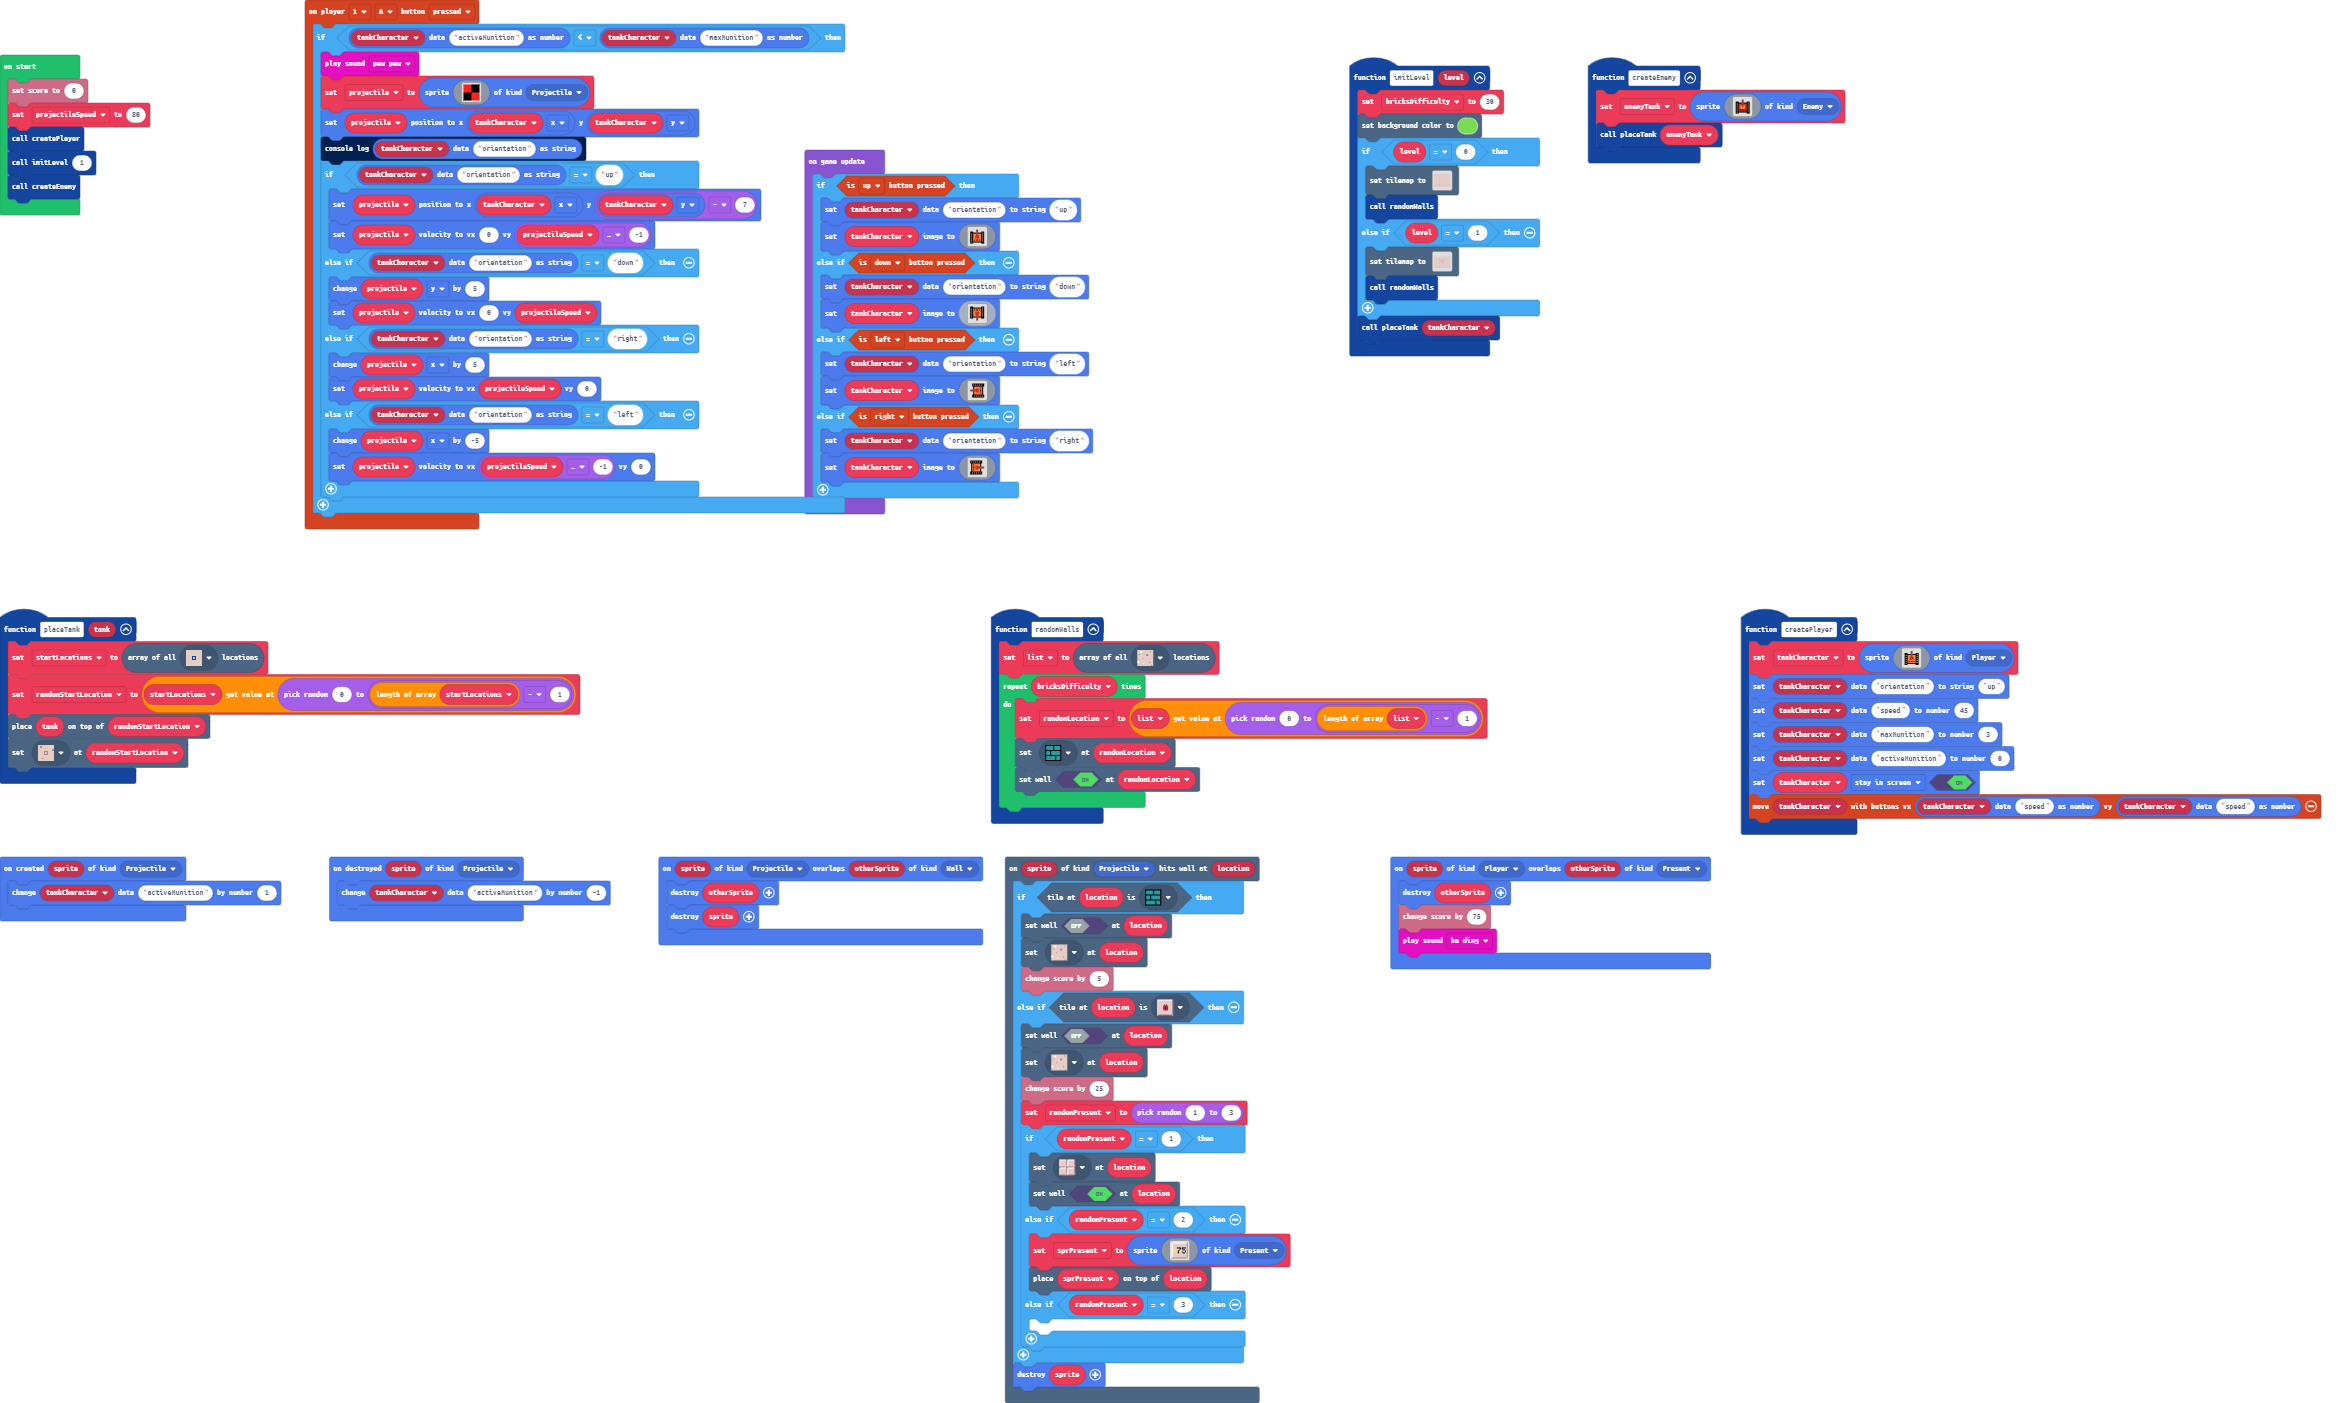
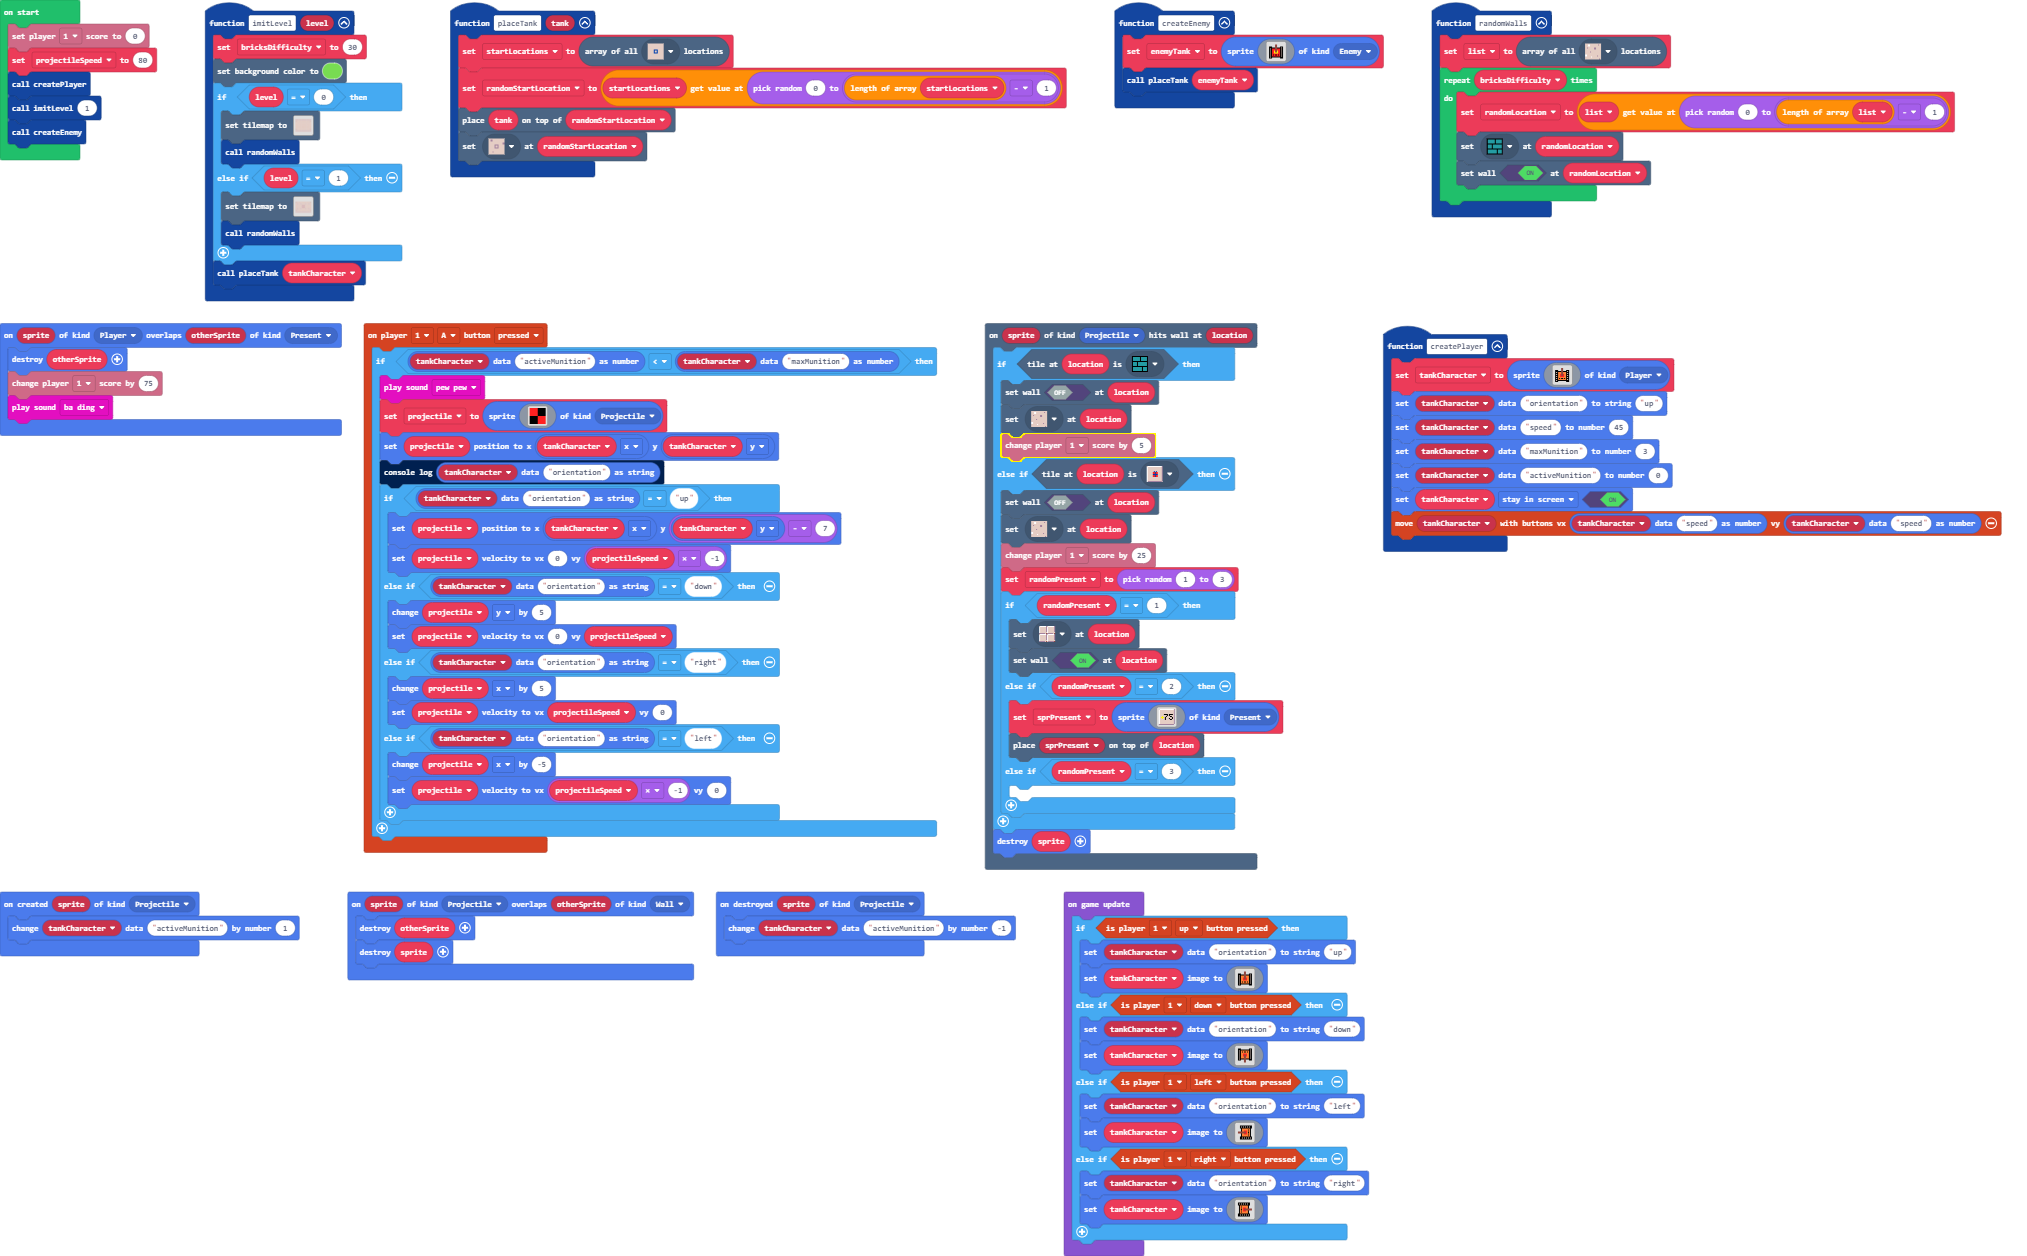
We edited score and started AI

diff --git a/main.ts b/main.ts
@@ -69,7 +69,7 @@ function randomWalls () {
 }
 sprites.onOverlap(SpriteKind.Player, SpriteKind.Present, function (sprite, otherSprite) {
     otherSprite.destroy()
-    info.changeScoreBy(75)
+    info.player1.changeScoreBy(75)
     music.baDing.play()
 })
 controller.player1.onButtonEvent(ControllerButton.A, ControllerButtonEvent.Pressed, function () {
@@ -100,11 +100,11 @@ scene.onHitWall(SpriteKind.Projectile, function (sprite, location) {
     if (tiles.tileAtLocationEquals(location, myTiles.tile1)) {
         tiles.setWallAt(location, false)
         tiles.setTileAt(location, sprites.castle.tilePath5)
-        info.changeScoreBy(5)
+        info.player1.changeScoreBy(5)
     } else if (tiles.tileAtLocationEquals(location, myTiles.tile4)) {
         tiles.setWallAt(location, false)
         tiles.setTileAt(location, sprites.castle.tilePath5)
-        info.changeScoreBy(25)
+        info.player1.changeScoreBy(25)
         randomPresent = randint(1, 3)
         if (randomPresent == 1) {
             tiles.setTileAt(location, sprites.dungeon.floorLight0)
@@ -182,13 +182,13 @@ let startLocations: tiles.Location[] = []
 let tankCharacter: Sprite = null
 let bricksDifficulty = 0
 let projectileSpeed = 0
-info.setScore(0)
+info.player1.setScore(0)
 projectileSpeed = 80
 createPlayer()
 imitLevel(1)
 createEnemy()
 game.onUpdate(function () {
-    if (controller.up.isPressed()) {
+    if (controller.player1.isPressed(ControllerButton.Up)) {
         sprites.setDataString(tankCharacter, "orientation", "up")
         tankCharacter.setImage(img`
             . . . . . . . . . . . . . . . . 
@@ -208,7 +208,7 @@ game.onUpdate(function () {
             . f f f . . . . . . . . f f f . 
             . . . . . . . . . . . . . . . . 
             `)
-    } else if (controller.down.isPressed()) {
+    } else if (controller.player1.isPressed(ControllerButton.Down)) {
         sprites.setDataString(tankCharacter, "orientation", "down")
         tankCharacter.setImage(img`
             . . . . . . . . . . . . . . . . 
@@ -228,7 +228,7 @@ game.onUpdate(function () {
             . . . . . . . e e . . . . . . . 
             . . . . . . . . . . . . . . . . 
             `)
-    } else if (controller.left.isPressed()) {
+    } else if (controller.player1.isPressed(ControllerButton.Left)) {
         sprites.setDataString(tankCharacter, "orientation", "left")
         tankCharacter.setImage(img`
             . . . . . . . . . . . . . . . . 
@@ -248,7 +248,7 @@ game.onUpdate(function () {
             . . . f f f f f f f f f f f f . 
             . . . . . . . . . . . . . . . . 
             `)
-    } else if (controller.right.isPressed()) {
+    } else if (controller.player1.isPressed(ControllerButton.Right)) {
         sprites.setDataString(tankCharacter, "orientation", "right")
         tankCharacter.setImage(img`
             . . . . . . . . . . . . . . . . 
